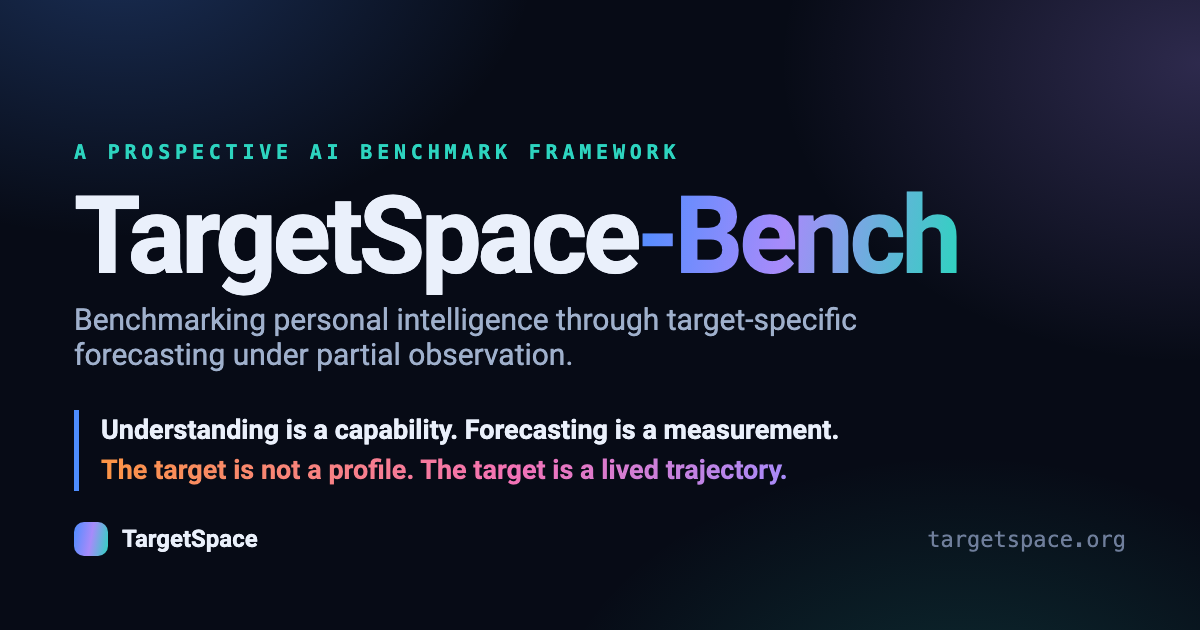
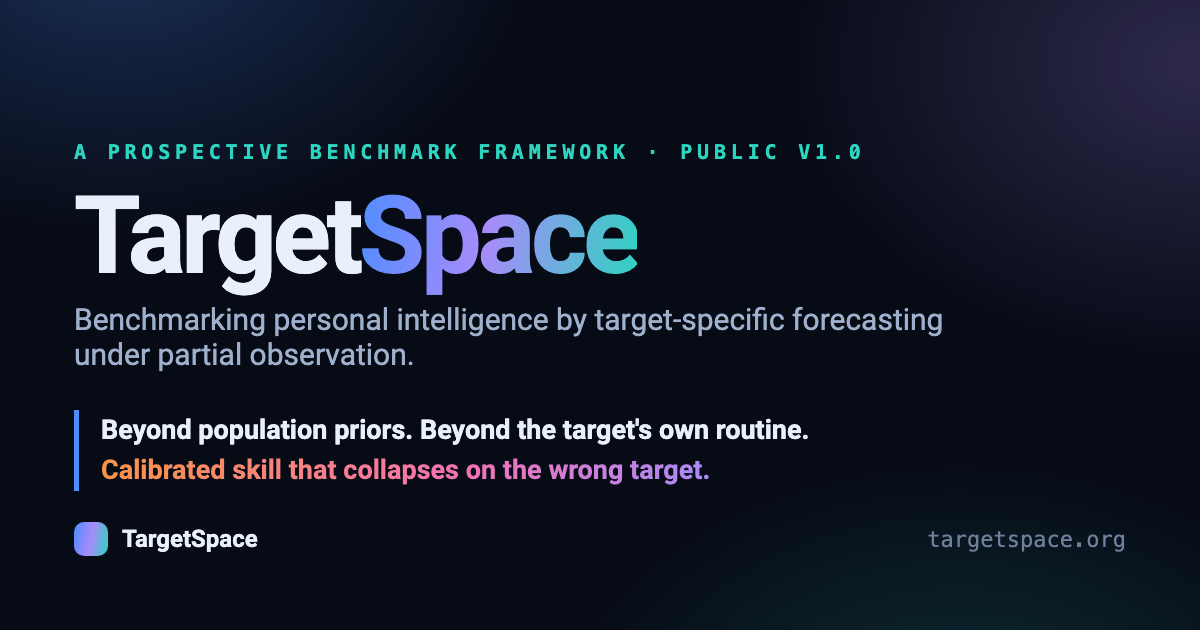
Prepare TargetSpace public v1.0 release
- Paper asset renamed to assets/targetspace-paper-v1.0.pdf (latest build,
  whose title page now reads 'Public preprint --- Version 1.0'); all links
  updated (homepage, paper page, README); stale 2026/v8.1 filenames removed.
- Paper page: Version 1.0 labels, updated version history, citation note
  'Public preprint, Version 1.0; pre-pilot protocol proposal' (also on the
  homepage citation block).
- og.png regenerated: TargetSpace wordmark, exact paper subtitle wording,
  'Public v1.0' eyebrow, R1/R2/permutation tagline.

diff --git a/paper.html b/paper.html
@@ -24,15 +24,15 @@
     <ul class="metalist" style="margin-bottom:8px">
       <li><span class="k">Authors</span><span>Yuri Andrade Sylvester</span></li>
       <li><span class="k">Type</span><span>Preprint <span class="pill">pre-pilot</span> <span class="pill">no empirical results</span></span></li>
-      <li><span class="k">Manuscript</span><span><span class="vtag">2026 pre-pilot</span> &middot; 48 pp &middot; synthetic demonstration only</span></li>
+      <li><span class="k">Version</span><span><span class="vtag">Version 1.0</span> &middot; public preprint, 2026 &middot; 48 pp &middot; synthetic demonstration only</span></li>
       <li><span class="k">Portal</span><span>benchmark version <span class="vtag">v0.1-pilot</span></span></li>
       <li><span class="k">arXiv</span><span class="muted">forthcoming</span></li>
       <li><span class="k">Code</span><span><a href="https://github.com/yurisyl/targetspace-bench" rel="noopener">github.com/yurisyl/targetspace-bench</a></span></li>
     </ul>
 
     <div class="btns" style="margin:8px 0 30px">
-      <a class="btn btn--primary" href="/assets/targetspace-paper-2026.pdf" download>Download PDF</a>
-      <a class="btn btn--ghost" href="/assets/targetspace-paper-2026.pdf" target="_blank" rel="noopener">Open in browser</a>
+      <a class="btn btn--primary" href="/assets/targetspace-paper-v1.0.pdf" download>Download PDF</a>
+      <a class="btn btn--ghost" href="/assets/targetspace-paper-v1.0.pdf" target="_blank" rel="noopener">Open in browser</a>
       <a class="btn btn--ghost" href="#cite">Cite</a>
     </div>
 
@@ -56,14 +56,14 @@
             Target-Specific Forecasting Under Partial Observation},
   author = {Sylvester, Yuri Andrade},
   year   = {2026},
-  note   = {Pre-pilot protocol proposal},
+  note   = {Public preprint, Version 1.0; pre-pilot protocol proposal},
   url    = {https://targetspace.org/}
 }</pre>
     </div>
 
     <h2 style="margin-top:34px">Version history</h2>
     <ul class="metalist">
-      <li><span class="k">Manuscript 2026</span><span>Current preprint (48 pp): benchmark-first restructure, ambient-AI motivation, task/protocol tables, appendices A&ndash;L with full specifications.</span></li>
+      <li><span class="k">Version 1.0 (2026)</span><span>First public release (48 pp): benchmark-first structure, ambient-AI motivation, task/protocol tables, appendices A&ndash;L with full specifications.</span></li>
       <li><span class="k">Portal v0.1-pilot</span><span>This site and the synthetic harness; illustrative leaderboard, no official submissions.</span></li>
       <li><span class="k">Planned v0.2</span><span>First consented federated TS-Personal pilot and a frozen private split.</span></li>
     </ul>

diff --git a/assets/og.html b/assets/og.html
@@ -18,10 +18,10 @@
   .dot{width:34px;height:34px;border-radius:10px;background:linear-gradient(100deg,#4d8dff,#a78bfa,#2dd4bf)}
   .url{position:absolute;bottom:4px;right:0;font-family:ui-monospace,monospace;color:#6f7e9b;font-size:22px}
 </style></head><body><div class="wrap">
-  <div class="ey">A prospective AI benchmark framework</div>
-  <h1>TargetSpace<span class="grad">-Bench</span></h1>
-  <div class="sub">Benchmarking personal intelligence through target-specific forecasting under partial observation.</div>
-  <div class="sig">Understanding is a capability. Forecasting is a measurement.<br><span class="b">The target is not a profile. The target is a lived trajectory.</span></div>
+  <div class="ey">A prospective benchmark framework &middot; Public v1.0</div>
+  <h1>Target<span class="grad">Space</span></h1>
+  <div class="sub">Benchmarking personal intelligence by target-specific forecasting under partial observation.</div>
+  <div class="sig">Beyond population priors. Beyond the target's own routine.<br><span class="b">Calibrated skill that collapses on the wrong target.</span></div>
   <div class="brand"><span class="dot"></span> TargetSpace</div>
   <div class="url">targetspace.org</div>
 </div></body></html>

diff --git a/index.html b/index.html
@@ -40,7 +40,7 @@
       </div>
       <div class="btns">
         <a class="btn btn--primary" href="/paper">Read the paper</a>
-        <a class="btn btn--ghost" href="/assets/targetspace-paper-2026.pdf" download>Download PDF</a>
+        <a class="btn btn--ghost" href="/assets/targetspace-paper-v1.0.pdf" download>Download PDF</a>
         <a class="btn btn--ghost" href="https://github.com/yurisyl/targetspace-bench" rel="noopener">View GitHub</a>
         <a class="btn btn--ghost" href="#protocol">See protocol</a>
       </div>
@@ -285,7 +285,7 @@
       <span class="eyebrow">Paper</span>
       <h2>The protocol, in full</h2>
       <p class="lead"><em>TargetSpace: Benchmarking Personal Intelligence by Target-Specific Forecasting Under Partial Observation</em> &mdash; a prospective framework with own-routine baselines, permutation specificity, calibration, and evidence ablation. Pre-pilot protocol proposal.</p>
-      <div class="btns"><a class="btn btn--primary" href="/paper">Read &amp; cite</a><a class="btn btn--ghost" href="/assets/targetspace-paper-2026.pdf" download>Download PDF</a></div>
+      <div class="btns"><a class="btn btn--primary" href="/paper">Read &amp; cite</a><a class="btn btn--ghost" href="/assets/targetspace-paper-v1.0.pdf" download>Download PDF</a></div>
       <div class="code" style="margin-top:18px">
         <pre>@misc{targetspace2026,
   title={TargetSpace: Benchmarking Personal Intelligence
@@ -293,7 +293,8 @@
          Observation},
   author={Yuri Andrade Sylvester},
   year={2026},
-  note={Pre-pilot protocol proposal}
+  note={Public preprint, Version 1.0;
+        pre-pilot protocol proposal}
 }</pre>
       </div>
     </div>

diff --git a/README.md b/README.md
@@ -5,7 +5,7 @@ modeling from passive multimodal observation**. TargetSpace is a shared evaluati
 apparatus for target-specific forecasting under partial observation, instantiated first in
 personal intelligence (the flagship **TS-Personal** track).
 
-**Live:** https://targetspace.org · **Paper:** [2026 pre-pilot PDF](assets/targetspace-paper-2026.pdf) · **Portal version:** v0.1-pilot (illustrative data only)
+**Live:** https://targetspace.org · **Paper:** [2026 pre-pilot PDF](assets/targetspace-paper-v1.0.pdf) · **Portal version:** v0.1-pilot (illustrative data only)
 
 > The target is not a profile. The target is a lived trajectory.
 